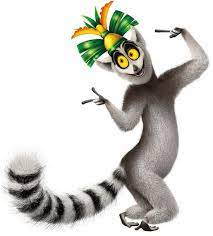
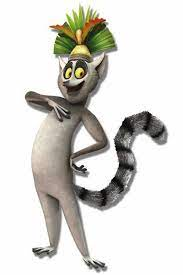
Changes

diff --git a/ViewViewModels/Collections/CollectionsUpdatable/UpdatableCollectionWButtonsView.xaml b/ViewViewModels/Collections/CollectionsUpdatable/UpdatableCollectionWButtonsView.xaml
@@ -32,7 +32,7 @@
                             <!-- FlexLayout with NameOfMovie and buttons -->
                             <FlexLayout AlignItems="Start">
                                 <Label Text="{Binding NameofMovie, Mode=TwoWay}" FontAttributes="Bold"
-                                       HorizontalTextAlignment="Start" TextColor="Black" FontSize="Medium"
+                                       HorizontalTextAlignment="Start" TextColor="Black" FontSize="Small"
                                        FlexLayout.Grow="1" />
 
                                 <StackLayout Orientation="Horizontal" HorizontalOptions="EndAndExpand">
@@ -54,3 +54,4 @@
         </RefreshView>
     </StackLayout>
 </ContentPage>
+    

diff --git a/ViewViewModels/Collections/MenuView/MadagascarCollectionView.xaml b/ViewViewModels/Collections/MenuView/MadagascarCollectionView.xaml
@@ -15,8 +15,8 @@
         <!-- View: Separator Line -->
         <BoxView HeightRequest="2" BackgroundColor="#000000"/>
 
-        <!-- View: CollectionView to display Marvel movies -->
-        <!-- ViewModel: Binding to the "MarvelMoviesCollection" in the ViewModel -->
+        <!-- View: CollectionView to display Madagascar movies -->
+        <!-- ViewModel: Binding to the "MadagascarMoviesCollection" in the ViewModel -->
         <CollectionView x:Name="ItemsListView"
                                 ItemsSource="{Binding MadagascarMoviesCollection}" 
                                 SelectionMode="None">

diff --git a/ViewViewModels/Collections/CollectionsUpdatable/UpdatableCollectionWIconsView.xaml b/ViewViewModels/Collections/CollectionsUpdatable/UpdatableCollectionWIconsView.xaml
@@ -1,0 +1,12 @@
+<?xml version="1.0" encoding="utf-8" ?>
+<ContentPage xmlns="http://schemas.microsoft.com/dotnet/2021/maui"
+             xmlns:x="http://schemas.microsoft.com/winfx/2009/xaml"
+             x:Class="MyFirstMobileApp.ViewViewModels.Collections.CollectionsUpdatable.UpdatableCollectionWIcons"
+             Title="UpdatableCollectionWIcons">
+    <VerticalStackLayout>
+        <Label 
+            Text="Welcome to .NET MAUI!"
+            VerticalOptions="Center" 
+            HorizontalOptions="Center" />
+    </VerticalStackLayout>
+</ContentPage>

diff --git a/Models/Entities/CharacterInfo.cs b/Models/Entities/CharacterInfo.cs
@@ -23,14 +23,14 @@
         ///<summary>
         /// Retrieves a list of sample character data, each representing an actor's name, an image URL, and the character they portray.
         ///</summary>
-        ///<returns>A list of ActorCharacterInfo objects containing sample data.</returns>
+        ///<returns>A list of CharacterInfo objects containing sample data.</returns>
         public static List<CharacterInfo> GetSampleCharacterData()
         {
             var actors = new List<CharacterInfo>
             {
                 // Create ActorCharacterInfo objects with sample data
                 new CharacterInfo("David Schwimmer", ImageSource.FromFile("Images/MAD/melvin.jpg"), "Melvin"),
-                new CharacterInfo("Sacha Baron Cohen", ImageSource.FromFile("Images/MAD/kingJulien.jpg"), "King Julien"),
+                new CharacterInfo("Sacha Baron Cohen", ImageSource.FromFile("Images/MAD/king.jpg"), "King Julien"),
                 new CharacterInfo("Chris Rock", ImageSource.FromFile("Images/MAD/marty.jpg"), "Marty"),
                 new CharacterInfo("Ben Stiller", ImageSource.FromFile("Images/MAD/alex.jpg"), "Alex"),
                 new CharacterInfo("Jada Pinkett Smith", ImageSource.FromFile("Images/MAD/gloria.jpg"), "Gloria")

diff --git a/ViewViewModels/Collections/CollectionsView/CollectionsMenuViewModel.cs b/ViewViewModels/Collections/CollectionsView/CollectionsMenuViewModel.cs
@@ -31,24 +31,24 @@ namespace MyFirstMobileApp.ViewViewModels.Collections.CollectionsView
             OnCollectionViewIconClicked = new Command(OnCollectionViewIconClickedAsync);
         }
 
+        //Navigate to the different pages
         private async void OnCollectionViewClickedAsync(object obj)
         {
             await Application.Current.MainPage.Navigation.PushAsync(new MadagascarCollectionView());
         }
-
         private async void OnCollectionWImagesViewClickedAsync(object obj)
         {
             await Application.Current.MainPage.Navigation.PushAsync(new MadCollectionWImagesView());
         }
-
         private async void OnCollectionViewButtonsClickedAsync(object obj)
         {
             await Application.Current.MainPage.Navigation.PushAsync(new UpdatableCollectionWButtonsView());
         }
-
         private async void OnCollectionViewIconClickedAsync(object obj)
         {
-            //await Application.Current.MainPage.Navigation.PushAsync(new UpdatableCollectionWIconsView());
+            await Application.Current.MainPage.Navigation.PushAsync(new UpdatableCollectionWIconsView());
         }
+
     }
+
 }

diff --git a/ViewViewModels/Collections/CollectionsUpdatable/UpdatableCollectionViewModel.cs b/ViewViewModels/Collections/CollectionsUpdatable/UpdatableCollectionViewModel.cs
@@ -13,6 +13,7 @@ using System.Windows.Input;
 
 namespace MyFirstMobileApp.ViewViewModels.Collections.CollectionsUpdatable
 {
+
     public class UpdateableCollectionViewModel : BaseViewModel
     {
         public ObservableCollection<MadagascarMovies> MovieCollection { get; set; }
@@ -39,7 +40,7 @@ namespace MyFirstMobileApp.ViewViewModels.Collections.CollectionsUpdatable
                 //Clear the existing collection
                 MovieCollection.Clear();
 
-                //Get a list of Marvel movies and add them to the collection
+                //Get a list of Madagascar movies and add them to the collection
                 var marvelMovies = MadagascarMovies.GetMovies();
                 foreach (var movie in marvelMovies)
                 {
@@ -115,4 +116,5 @@ namespace MyFirstMobileApp.ViewViewModels.Collections.CollectionsUpdatable
 #pragma warning restore CA1416 // Validate platform compatibility
 
     }
+
 }

diff --git a/Models/Entities/MadagascarMovies.cs b/Models/Entities/MadagascarMovies.cs
@@ -8,11 +8,13 @@ namespace MyFirstMobileApp.Models.Entities
 {
     public class MadagascarMovies
     {
+
         public string NameofMovie { get; set; }
 
-        //ImageButtons
+        //ImageButtons - Used for UpdatableCollections
         public ImageSource EditButton { get; } = Buttons.ButtonEdit;
         public ImageSource DeleteButton { get; } = Buttons.ButtonDelete;
+
 
         public MadagascarMovies() { }
 
@@ -21,6 +23,7 @@ namespace MyFirstMobileApp.Models.Entities
             NameofMovie = name;
         }
 
+        //Used for Collections
         public static List<MadagascarMovies> GetMovies()
         {
             return new List<MadagascarMovies>
@@ -33,5 +36,7 @@ namespace MyFirstMobileApp.Models.Entities
                 new MadagascarMovies("Madagascar 4")
             };
         }
+
     }
+
 }

diff --git a/ViewViewModels/Collections/ImagesView/MadCollectionWImagesViewModel.cs b/ViewViewModels/Collections/ImagesView/MadCollectionWImagesViewModel.cs
@@ -11,8 +11,10 @@ using System.Threading.Tasks;
 
 namespace MyFirstMobileApp.ViewViewModels.Collections.ImagesView
 {
+
     internal class MadCollectionWImagesViewModel : BaseViewModel
     {
+
         public ObservableCollection<CharacterInfo> MadagascarCollection { get; }
 
         private readonly List<CharacterInfo> _madagascar;
@@ -42,5 +44,7 @@ namespace MyFirstMobileApp.ViewViewModels.Collections.ImagesView
                 Debug.WriteLine(ex);
             }
         }
+
     }
+
 }

diff --git a/ViewViewModels/Collections/MenuView/MadagascarCollectionViewModel.cs b/ViewViewModels/Collections/MenuView/MadagascarCollectionViewModel.cs
@@ -11,6 +11,7 @@ using System.Threading.Tasks;
 
 namespace MyFirstMobileApp.ViewViewModels.Collections.MenuView
 {
+
     public class MadagascarCollectionViewModel : BaseViewModel
     {
         // ViewModel: Private fields
@@ -53,4 +54,5 @@ namespace MyFirstMobileApp.ViewViewModels.Collections.MenuView
             }
         }
     }
+
 }

diff --git a/Models/TitleMadagascarMoviesCollection.cs b/Models/TitleMadagascarMoviesCollection.cs
@@ -6,8 +6,11 @@ using System.Threading.Tasks;
 
 namespace MyFirstMobileApp.Models
 {
+
     public static class TitleMadagascarMoviesCollection
     {
+        //Defines a string constant for the title of the Madagascar movies collection
         public static string MadagascarMoviesTitle { get; } = "Madagascar Movies";
     }
+
 }

diff --git a/Models/TitleCollectionWButtons.cs b/Models/TitleCollectionWButtons.cs
@@ -6,8 +6,11 @@ using System.Threading.Tasks;
 
 namespace MyFirstMobileApp.Models
 {
+
     public static class TitleCollectionWButtons
     {
+        //Defines a string constant for the title of a collection with buttons
         public static string CollectionWButtonsTitle { get; } = "Collection With Buttons";
     }
+
 }

diff --git a/Models/TitleCollectionWImages.cs b/Models/TitleCollectionWImages.cs
@@ -6,8 +6,11 @@ using System.Threading.Tasks;
 
 namespace MyFirstMobileApp.Models
 {
+
     public static class TitleCollectionWImages
     {
+        //Defines a string constant for the title of a collection with images
         public static string CollectionWImagesTitle { get; } = "Collection w/Images";
     }
+
 }
